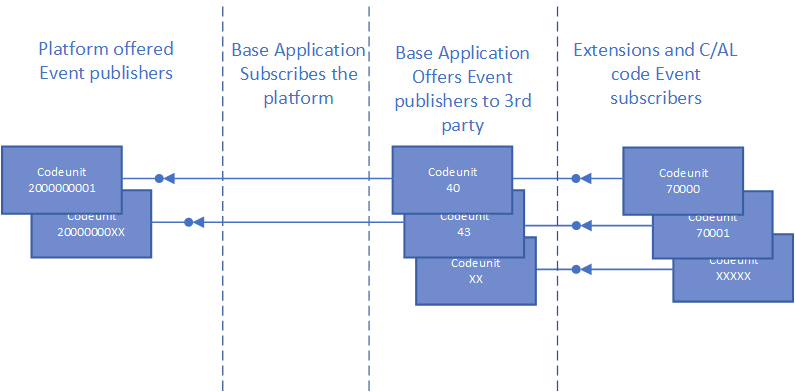
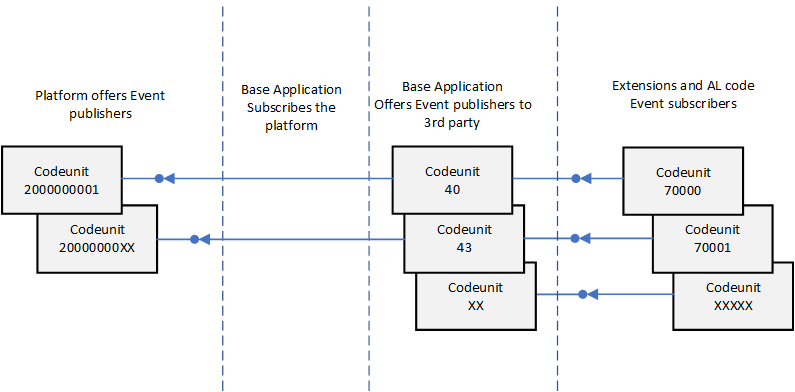
fix

diff --git a/dev-itpro/upgrade/transition-from-codeunit1.md b/dev-itpro/upgrade/transition-from-codeunit1.md
@@ -28,11 +28,11 @@ The following figure illustrates the implementation:
 > [!IMPORTANT] 
 > It is important that code does not subscribe to the events in the new system codeunits 2000000001..2000000010 directly. Although this is not blocked, it will be in a future release.
 
-## Mapping Codeunit 1 triggers to System events
+## Mapping Codeunit 1 method triggers to events
 
-The following table lists the mappings between the codeunit 1 system trigger and the new events.
+The following table lists the mappings between the codeunit 1 method triggers and the new methods.
 
-|Codeunit 1 trigger|New object ID|New function name|
+|Codeunit 1 trigger|New object ID|New method|
 |------------------|-------------|-----------------|
 |CompanyOpen|40|CompanyOpen
 |GetSystemIndicator|40|GetSystemIndicator
